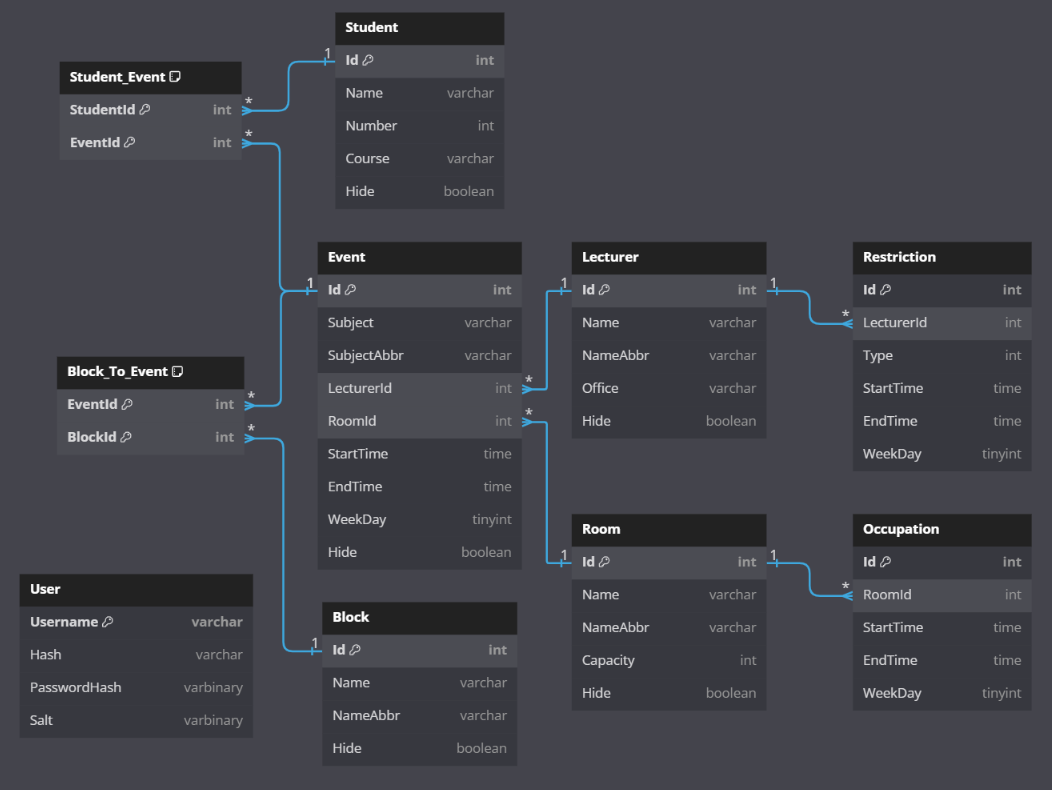
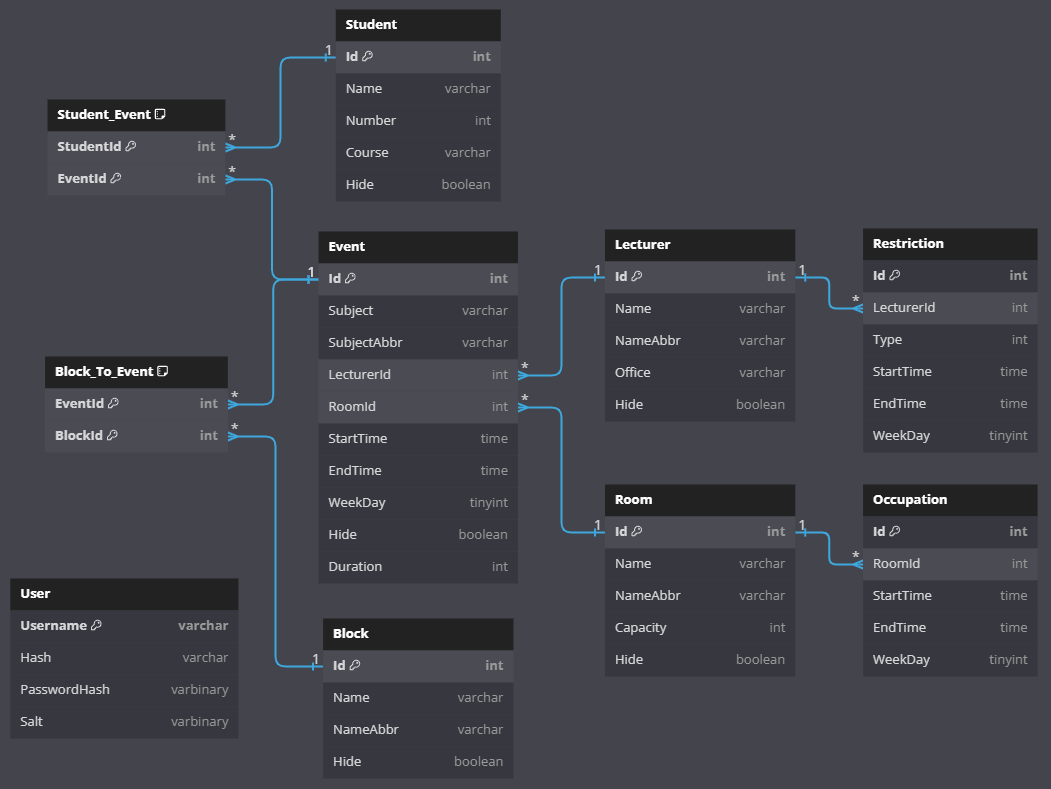
add 'rooms' to search space

diff --git a/schedule-backend/FlaskAPI/mcts/mcts.py b/schedule-backend/FlaskAPI/mcts/mcts.py
@@ -9,7 +9,7 @@ class MCTS:
     def __init__(self, current_timetable):
         self.timetable = deepcopy(current_timetable)
         self.events_to_visit = events_to_visit(self.timetable["events"])
-        if self.events_to_visit == []: raise Exception("All the events are allocated. There are no events to visit.")
+        if not self.events_to_visit: raise Exception("All the events are allocated. There are no events to visit.")
         self.root = MCTSNode(current_timetable)
         self.current_node = self.root
 
@@ -27,18 +27,9 @@ class MCTS:
 
     # MCTS steps:
 
-
     def selection(self):
-        if self.current_node.parent is None: return
-        event_index = self.current_node.parent.depth
-        event = self.events_to_visit[event_index]
-        start_of_day, lunch_end, latest_start_morning, latest_start_afternoon = calculate_time_bounds(event["Duration"])
-
-        valid_start_slots = get_valid_start_slots(
-            start_of_day, lunch_end, latest_start_morning, latest_start_afternoon
-        )
         current_node = self.root
-        while current_node.is_fully_expanded(len(valid_start_slots)*5):
+        while current_node.is_fully_expanded(self.events_to_visit):
             current_node = current_node.best_child()
         self.current_node = current_node
 
@@ -47,31 +38,29 @@ class MCTS:
         event = self.events_to_visit[self.current_node.depth]
 
         start_of_day, lunch_end, latest_start_morning, latest_start_afternoon = calculate_time_bounds(event["Duration"])
-        valid_start_slots = get_valid_start_slots(
-            start_of_day, lunch_end, latest_start_morning, latest_start_afternoon
-        )
+        valid_start_slots = get_valid_start_slots(start_of_day, lunch_end, latest_start_morning, latest_start_afternoon)
 
         slot = len(self.current_node.children)
         slot_index = slot % len(valid_start_slots)
-        new_weekday = (slot // len(valid_start_slots)) + 2
-        start_time = valid_start_slots[slot_index]
-        end_time = start_time + timedelta(minutes=event["Duration"])
+        new_weekday = (slot // len(valid_start_slots)) % 5 + 2
 
+        start_time = valid_start_slots[slot_index]
         new_start_time = timedelta(hours=start_time.hour, minutes=start_time.minute)
-        new_end_time = timedelta(hours=end_time.hour, minutes=end_time.minute)
+        new_end_time = new_start_time + timedelta(minutes=event["Duration"])
+
+        #print(f"Room {event['RoomId']} Weekday {new_weekday} StartTime {new_start_time} Event {event['Id']} Depth {self.current_node.depth}")
         
         new_timetable = deepcopy(self.current_node.timetable)
         for e in new_timetable["events"]:
             if e["Id"] == event["Id"]:
+                e["WeekDay"] = new_weekday
                 e["StartTime"] = new_start_time
                 e["EndTime"] = new_end_time
-                if event["RoomId"] is None : 
-                    new_room = random_room(self.timetable["occupations"], self.timetable["events"], new_start_time, new_end_time, self.timetable["rooms"])
-                    e["RoomId"] = new_room["Id"]
-                else: 
-                    e["RoomId"] = event["RoomId"]
-                e["WeekDay"] = new_weekday
+                if event["RoomId"] is None:
+                    available_rooms = empty_rooms(self.timetable["occupations"], self.timetable["events"], event, self.timetable["rooms"])
+                    e["RoomId"] = (slot // (len(valid_start_slots) * 5)) % len(available_rooms)
                 new_event = e
+                break
 
         child_node = MCTSNode(timetable=new_timetable, parent=self.current_node, depth=self.current_node.depth+1)
         child_node.path = self.current_node.path + [new_event]
@@ -100,14 +89,6 @@ class MCTS:
             simulation_result = self.simulation()
             self.backpropagation(simulation_result)
         return self.get_best_solution()
-
-
-    def get_best_solution1(self):
-        if self.root.children:
-            print_node_scores(self.root)
-            best_node = max(self.root.children, key=lambda node: (node.score / node.visits if node.visits > 0 else float('-inf'), node.visits))
-            return best_node.path if best_node else self.root.path
-        return self.root.path
     
 
     def get_best_solution(self):

diff --git a/schedule-backend/FlaskAPI/mcts/random_data.py b/schedule-backend/FlaskAPI/mcts/random_data.py
@@ -1,5 +1,6 @@
 import random
 from datetime import datetime, timedelta
+from mcts.utils import check_conflict_time, get_room_name_by_id
 
 def calculate_time_bounds(duration, start_hour=8, end_hour=20, launch_start_hour=13, launch_end_hour=14):
     start_of_day = datetime(2025, 1, 1, start_hour, 0)
@@ -43,21 +44,24 @@ def random_time(duration, start_hour = 8, end_hour = 20, launch_start_hour = 13,
     return timedelta(hours=start_time.hour, minutes=start_time.minute) , timedelta(hours=end_time.hour, minutes=end_time.minute), weekday
 
 
-def random_room(occupations, events, start_time, end_time, rooms):
-    occupied_rooms = set()
-    for event in events:
-        room = event['RoomId']
-        if room is not None:
-            occupied_rooms.add(room)
+def empty_rooms(occupations, events, event, rooms):
+    empty_rooms = {room["Id"] for room in rooms if room["Id"] is not None}
+    online = []
     
-    empty_rooms = [room for room in rooms if room["Id"] not in occupied_rooms]
-    
+    for e in events:
+        if get_room_name_by_id(e["RoomId"], rooms) == "DCC online": 
+            online.append(e["RoomId"])
+            if e["RoomId"] in empty_rooms:
+                empty_rooms.remove(e["RoomId"])
+        elif e['RoomId'] is not None and check_conflict_time(event["StartTime"], e, event["EndTime"], event["WeekDay"]):
+            empty_rooms.remove(e["RoomId"])
+
     for occupation in occupations:
         room = occupation['RoomId']
-        if room not in empty_rooms and start_time < occupation["EndTime"] and end_time > occupation["StartTime"]:
-            empty_rooms.add(room)
+        if room in empty_rooms and check_conflict_time(event["StartTime"], occupation, event["EndTime"], event["WeekDay"]):
+            empty_rooms.remove(room)
 
-    return random.choice(rooms) if not empty_rooms else random.choice(empty_rooms)
+    return online if not empty_rooms else list(empty_rooms)
 
 
 def random_event(events):

diff --git a/schedule-backend/FlaskAPI/mcts/utils.py b/schedule-backend/FlaskAPI/mcts/utils.py
@@ -1,7 +1,7 @@
 def events_to_visit(events):
     events_to_visit = []
     for event in events:
-        if event["StartTime"] is None and event["EndTime"] is None:
+        if event["StartTime"] is None or event["EndTime"] is None or event["WeekDay"] is None:
             events_to_visit.append(event)
     return events_to_visit
 
@@ -14,22 +14,26 @@ def get_event_by_id(event_id, events):
     for event in events:
         if event["Id"] == event_id:
             return event
-    raise Exception("Event Not Found")
+    return None
 
 
 def get_room_name_by_id(room_id, rooms):
     for room in rooms:
         if room["Id"] == room_id:
             return room["Name"]
-    raise Exception("Room Not Found")
+    return None
+
+
+def check_room_use():
+    #TODO
+    return
 
 
 # Check conflicts
 
 
 def check_conflict_time(start_time, other, end_time, weekday):
-    if not all([other["EndTime"], other["StartTime"], other["WeekDay"]]): 
-        return False
+    if not all([other["EndTime"], other["StartTime"], other["WeekDay"]]): return False
     return other["WeekDay"] == weekday and start_time < other["EndTime"] and end_time > other["StartTime"]
 
 

diff --git a/schedule-backend/FlaskAPI/mcts/mcts_node.py b/schedule-backend/FlaskAPI/mcts/mcts_node.py
@@ -12,11 +12,24 @@ class MCTSNode:
         self.path = []
         self.visits = 0
         self.score = 0
-        
-
-    def is_fully_expanded(self, num_slots):
-        return len(self.children) == num_slots
     
+    
+    def is_fully_expanded(self,events_to_visit):
+        event = events_to_visit[self.depth]
+        
+        start_of_day, lunch_end, latest_start_morning, latest_start_afternoon = calculate_time_bounds(event["Duration"])
+        valid_start_slots = get_valid_start_slots(
+            start_of_day, lunch_end, latest_start_morning, latest_start_afternoon
+        )
+
+        if event["RoomId"] is None:
+            available_rooms = empty_rooms(self.timetable["occupations"], self.timetable["events"], event, self.timetable["rooms"])
+            num_rooms = len(available_rooms)
+        else:
+            num_rooms = 1
+
+        return len(self.children) >= len(valid_start_slots)*5*num_rooms
+        
 
     def best_child(self, c_param = 1.4):
         choices_weights = [
